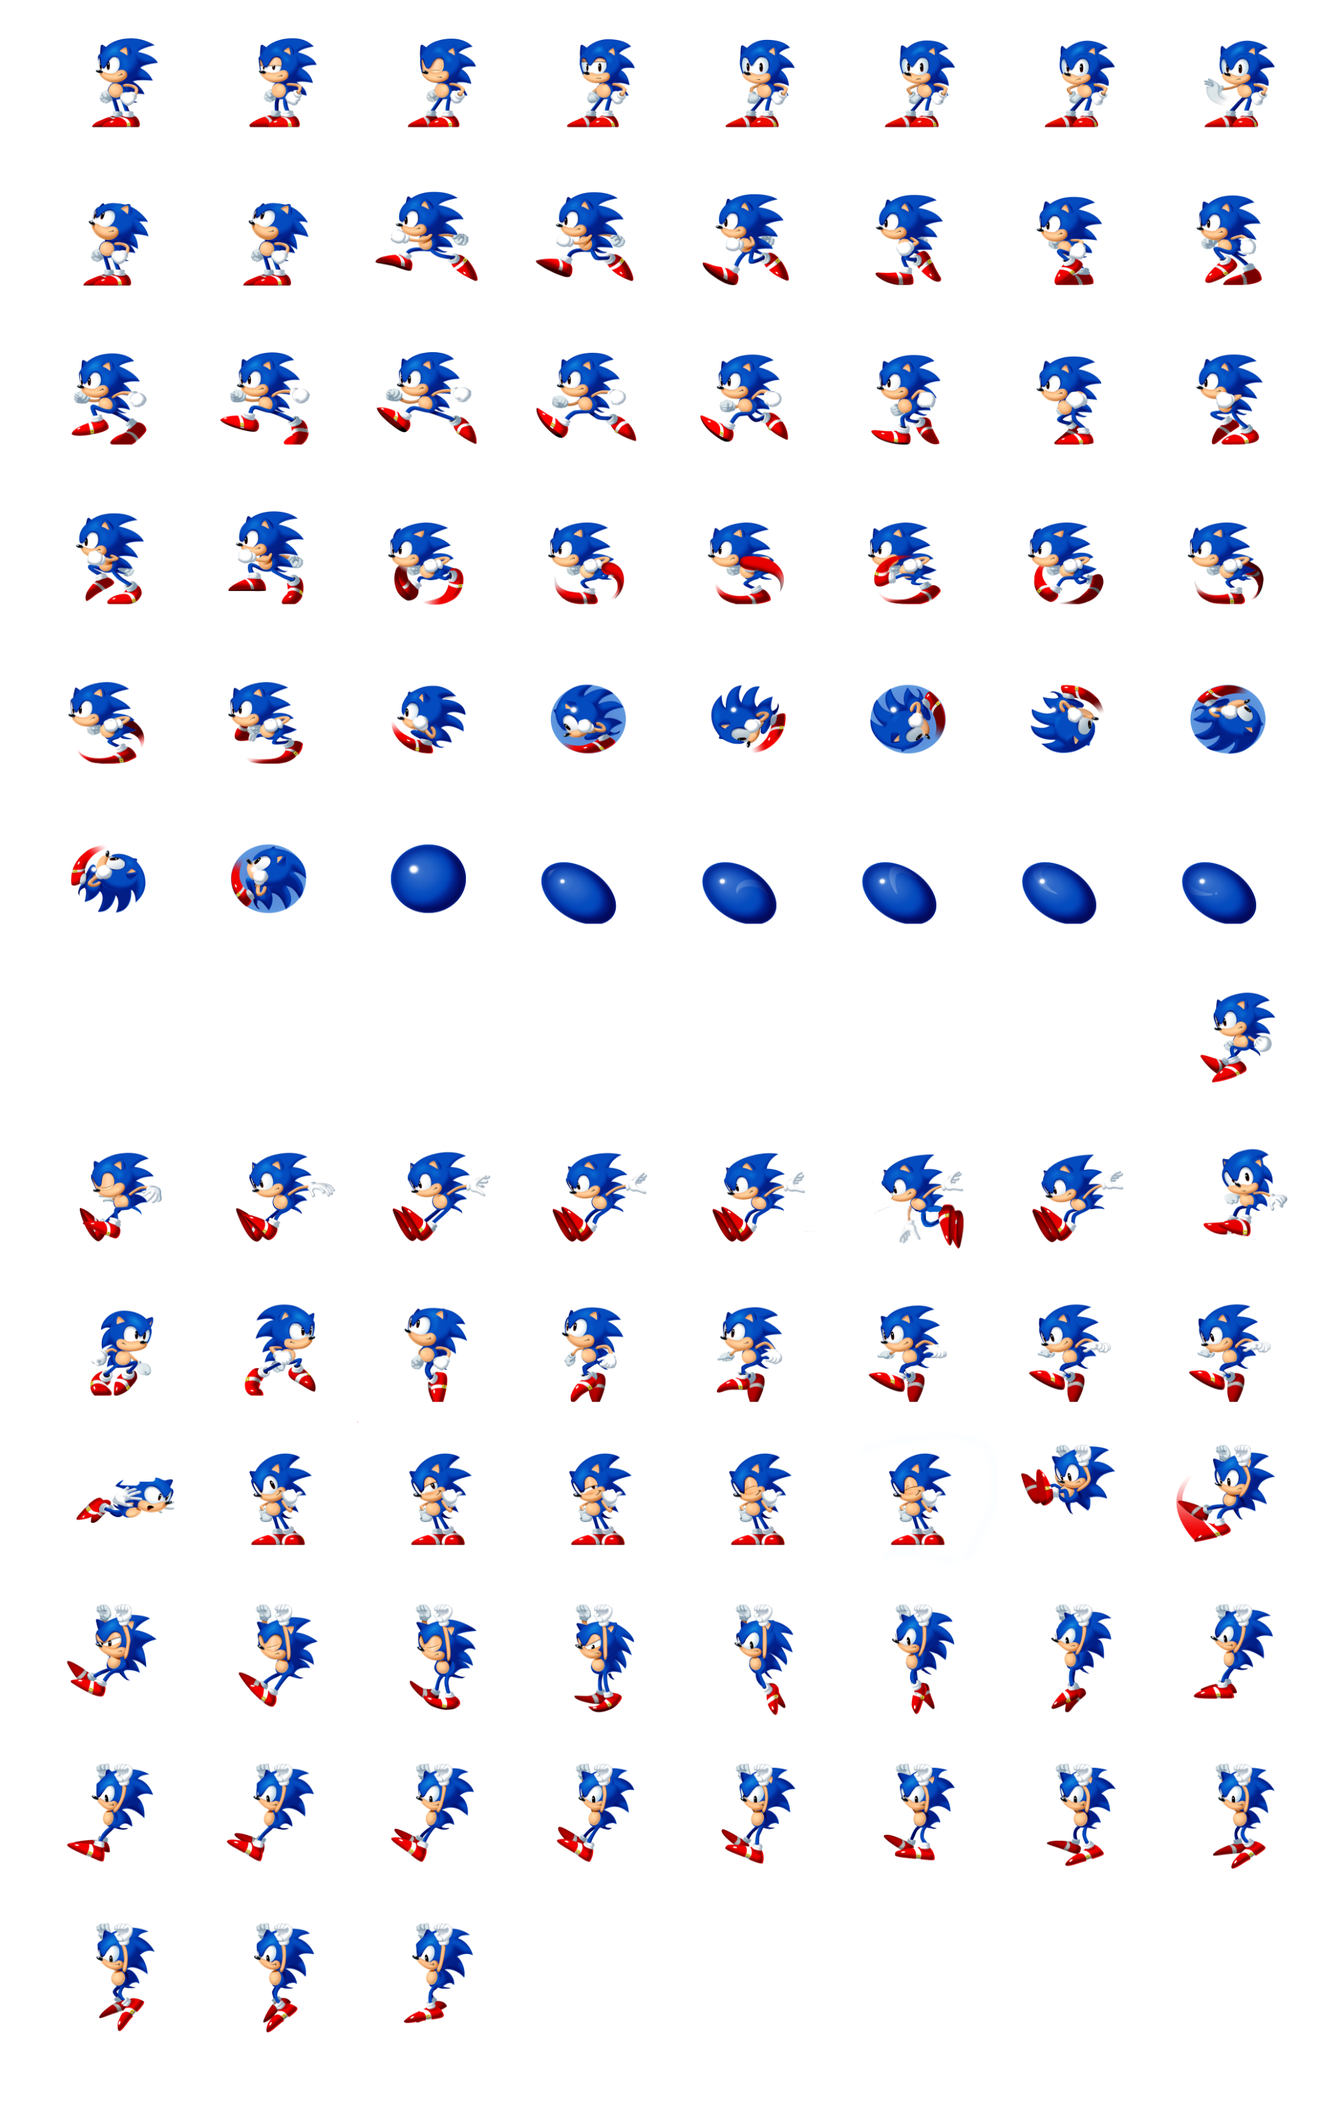
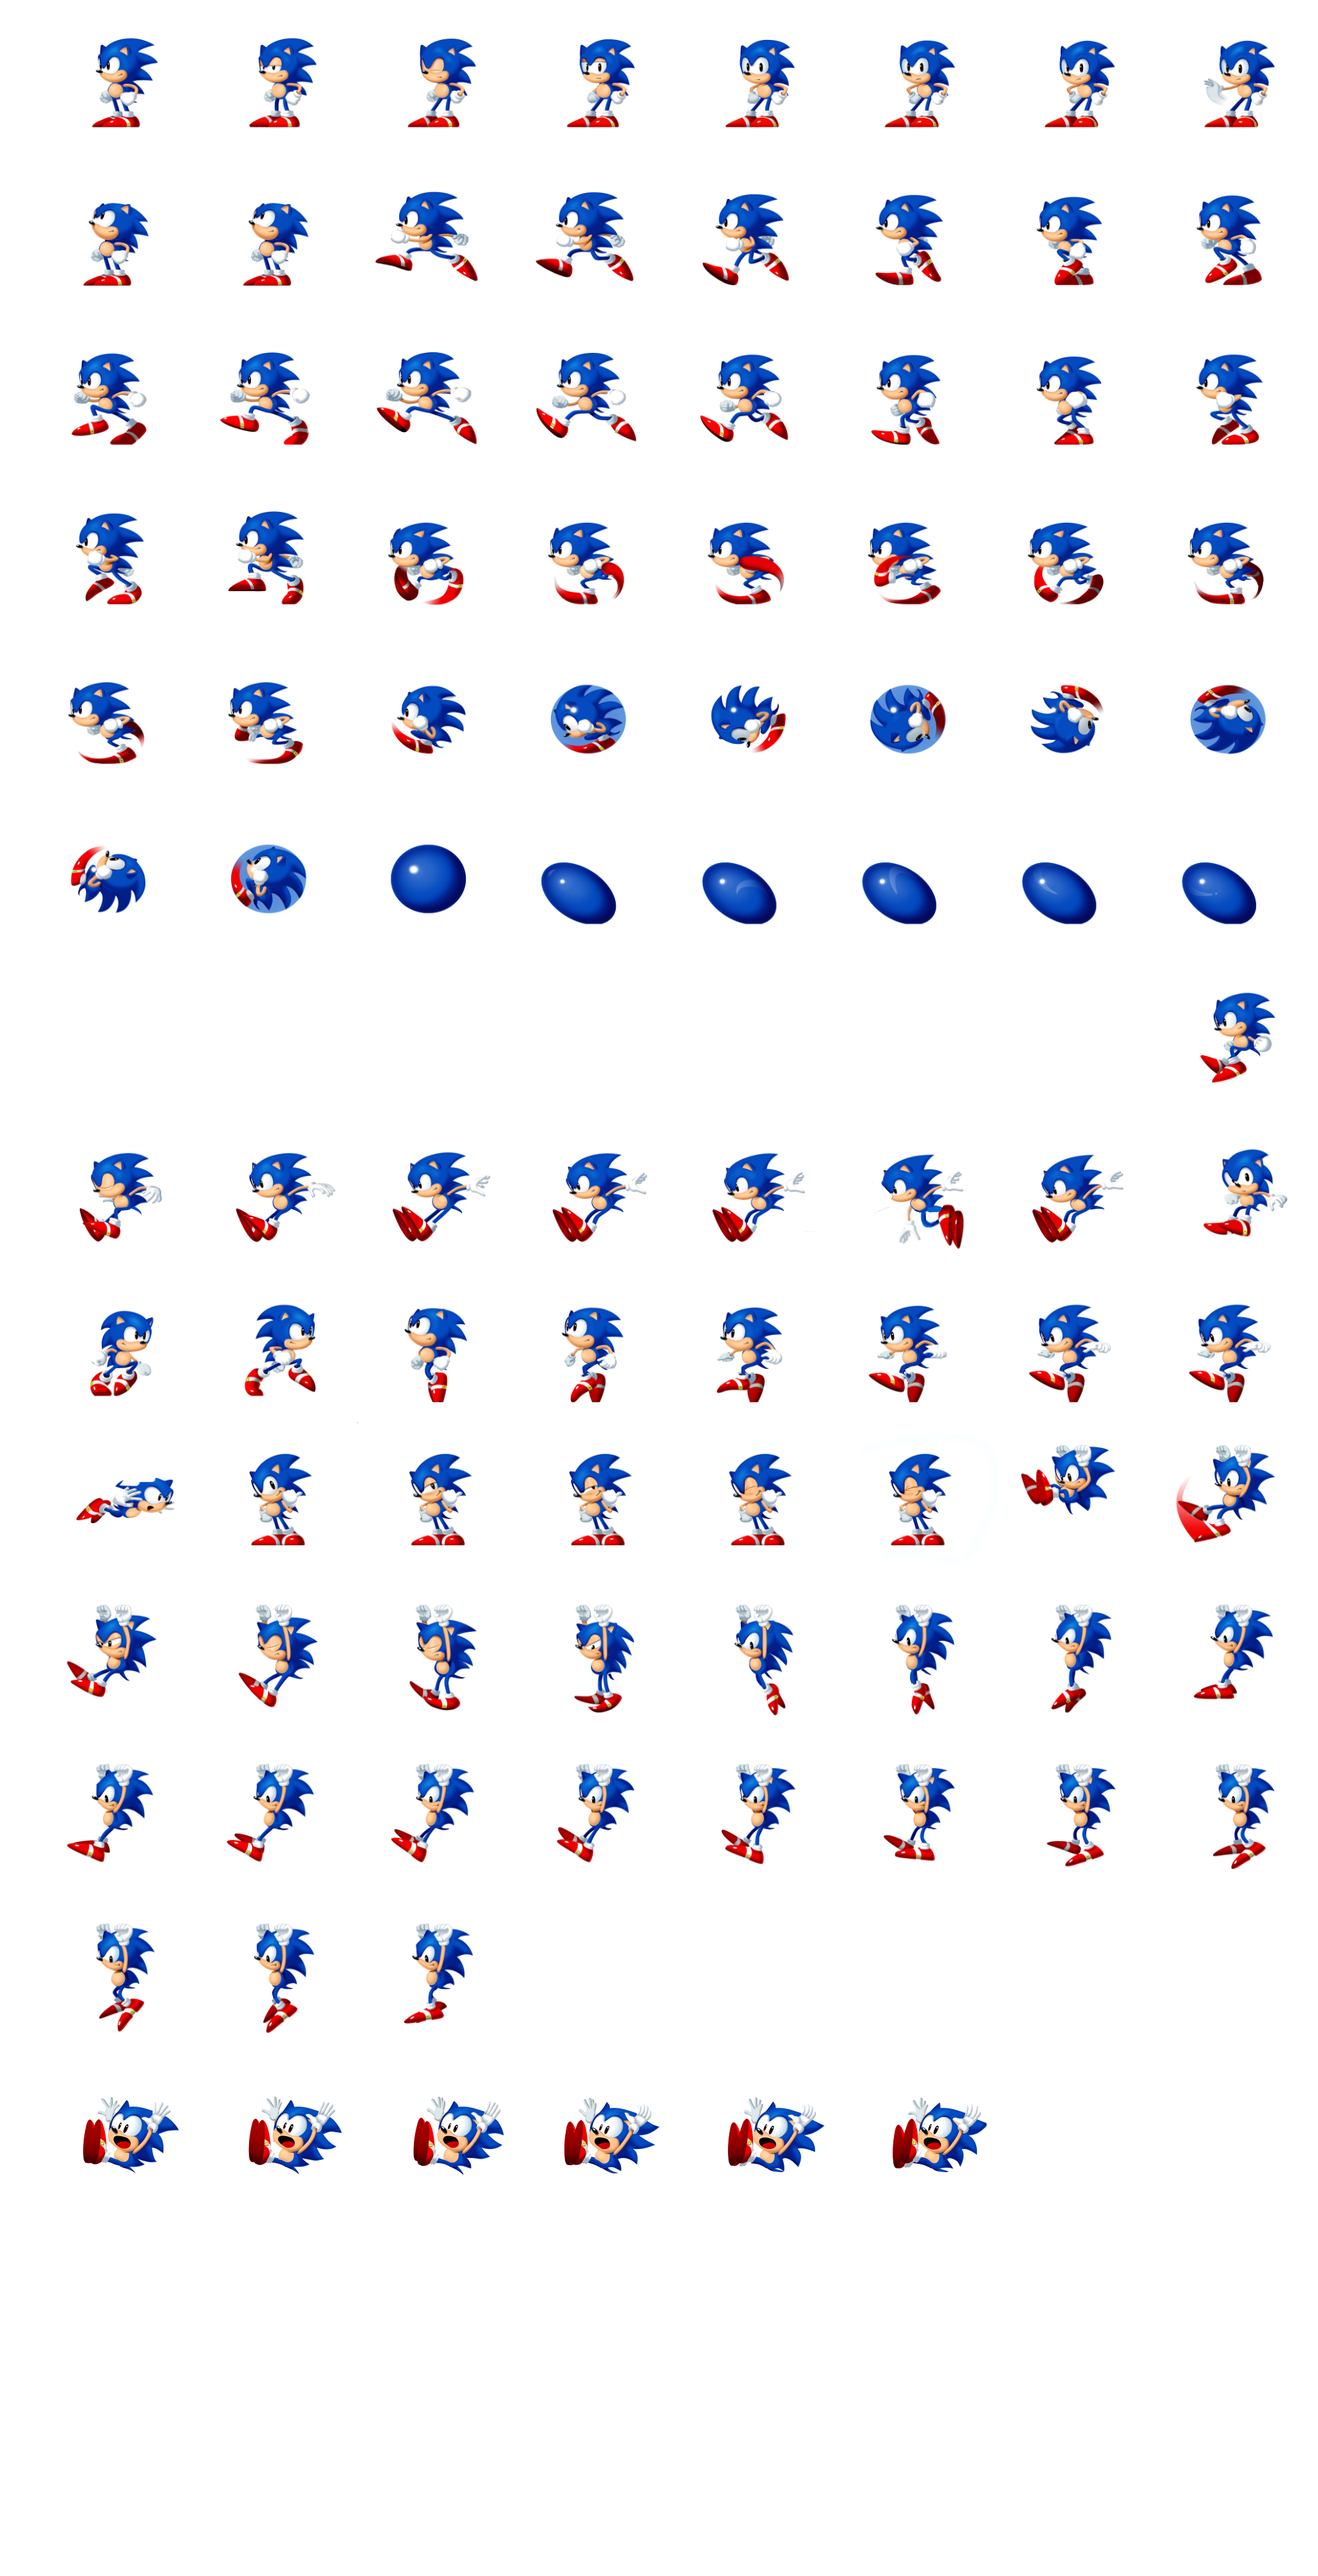
5/7

diff --git a/Classes/Sonic.cpp b/Classes/Sonic.cpp
@@ -10,7 +10,7 @@ Sonic::Sonic()
 	Vector<SpriteFrame*> jump_FL = loadAnim("Sonic/sonic_animation.xml", "jump");
 	Vector<SpriteFrame*> roll_FL = loadAnim("Sonic/sonic_animation.xml", "roll");
 	Vector<SpriteFrame*> fall_FL = loadAnim("Sonic/sonic_animation.xml", "fall");
-
+	Vector<SpriteFrame*> hurt_FL = loadAnim("Sonic/sonic_animation.xml", "hurt");
 
 	run_fast_Ani = new RefPtr<Animate>(Animate::create(Animation::createWithSpriteFrames(run_fast_FL, 0.01f)));
 	run_slow_Ani = new RefPtr<Animate>(Animate::create(Animation::createWithSpriteFrames(run_slow_FL, 0.1f)));
@@ -19,6 +19,8 @@ Sonic::Sonic()
 	roll_Ani=new RefPtr<Animate>(Animate::create(Animation::createWithSpriteFrames(roll_FL, 0.03f)));
 	fall_Ani= new RefPtr<Animate>(Animate::create(Animation::createWithSpriteFrames(fall_FL, 0.01f)));
 	roll_sky_Ani= new RefPtr<Animate>(Animate::create(Animation::createWithSpriteFrames(loadAnim("sonic_animation.xml", "roll_in_sky"), 0.03f)));;
+	hurt_Ani= new RefPtr<Animate>(Animate::create(Animation::createWithSpriteFrames(hurt_FL, 0.05f)));
+
 
 	auto verti = PhysicsBody::createCircle(75, PhysicsMaterial(0.1f, 0.0f, 0.0f));
 
@@ -167,6 +169,9 @@ void Sonic::SetStateByTag(SonicState::StateAction action)
 	case SonicState::HOLD:
 		this->SetState(new SonicHoldState(mData));
 		break;
+	case SonicState::HURT:
+		this->SetState(new SonicHurtState(mData));
+		break;
 
 	}
 }
@@ -212,6 +217,11 @@ void Sonic::SetState(SonicState * state)
 		this->setTextureRect(Rect(1366, 1784, 132, 159));
 		return;
 		break;
+	case SonicState::HURT:
+		this->stopAllActions();
+		mCurrentAnimate = hurt_Ani;
+		mCurrentAction = mCurrentAnimate->get()->clone();
+		break;
 	}
 	this->runAction(mCurrentAction);
 }
@@ -252,42 +262,17 @@ void Sonic::HandleCollision(Sprite * sprite)
 	}
 	
 	//When Sonic hits enemy, push back and drop rings
-	if (sprite->getTag() == Define::LANDMONSTER 
-			&& (this->mCurrentState->GetState() == SonicState::RUN_FAST 
-				|| this->mCurrentState->GetState() == SonicState::JUMP 
-					|| this->mCurrentState->GetState() == SonicState::FALL))
+	if (sprite->getTag() == Define::LANDMONSTER && mCurrentState->GetState() != SonicState::ROLL)
 	{
-		this->SetVelocity(0, 0);
-		this->getPhysicsBody()->applyImpulse(Vec2(-500000, 100000));
 		
-		if (ringCollected > 0 && baseLife > 0) 
-		{
-			int t = ringCollected; //Temp variable
-			for (int i = 0; i < (int)(t / baseLife); i++)
-			{
-				this->runAction(CallFuncN::create(CC_CALLBACK_0(Sonic::DropRing, this)));
-				ringCollected--;				
-			}
-			baseLife--;
-		}
-		else if (ringCollected <= 0 || baseLife <= 0)
-		{
-			////You die	
-			ringCollected = 0;
-			baseLife = 2;
-		}
 
-		//Set monster no longer interact with Sonic
-		sprite->getPhysicsBody()->setContactTestBitmask(0);
+		this->SetStateByTag(SonicState::HURT);
 		this->runAction(Blink::create(2, 10));
+		//Monster cant collision with Sonic 
+		sprite->getPhysicsBody()->setContactTestBitmask(0);
+	
 		
 	}
-
-	if (this->getPhysicsBody()->getContactTestBitmask() == 14)
-	{
-		this->getPhysicsBody()->setContactTestBitmask(30);
-	}
-
 	mCurrentState->HandleCollision(sprite);
 }
 
@@ -328,25 +313,4 @@ void Sonic::updateStart(float dt)
 	//this->addChild(_roll_circle);
 	this->addChild(_roll_effect);
 	_roll_effect->setVisible(false);
-}
-
-void Sonic::DropRing()
-{
-	auto ring = new SmallRing();
-	ring->setPosition(this->getPosition() + this->getContentSize()/2);
-
-	ring->getPhysicsBody()->setDynamic(true);
-	ring->getPhysicsBody()->setGravityEnable(true);
-	
-	ring->getPhysicsBody()->setCollisionBitmask(2);
-	
-	float x = RandomHelper::random_real(-1.0, 1.0);
-	float y = RandomHelper::random_real(0.0, 10.0);
-
-	ring->getPhysicsBody()->setVelocity(Vec2(0, 0));
-	ring->getPhysicsBody()->applyForce(Vec2(-3000000*x, 800000*y));
-	ring->getPhysicsBody()->setContactTestBitmask(1);
-	ring->SetAutoRemove();
-
-	this->getParent()->addChild(ring, 1);
 }

diff --git a/Classes/SonicHurtState.cpp b/Classes/SonicHurtState.cpp
@@ -1,0 +1,78 @@
+#include "SonicHurtState.h"
+#include "Sonic.h"
+
+
+SonicHurtState::SonicHurtState(SonicData * playerData)
+{
+	
+	this->mPlayerData = playerData;
+	
+	mPlayerData->player->SetVelocity(0, 0);
+	mPlayerData->player->getPhysicsBody()->applyImpulse(Vec2(-500000, 200000));
+
+
+	if ( mPlayerData->player->ringCollected > 0 &&  mPlayerData->player->baseLife > 0)
+	{
+		int t =  mPlayerData->player->ringCollected; //Temp variable
+		for (int i = 0; i < (int)(t /  mPlayerData->player->baseLife); i++)
+		{
+			//mPlayerData->player->runAction(CallFuncN::create(CC_CALLBACK_0(SonicHurtState::DropRing, this)));
+			DropRing();
+			mPlayerData->player->ringCollected--;
+		}
+		 mPlayerData->player->baseLife--;
+	}
+	else if ( mPlayerData->player->ringCollected <= 0 ||  mPlayerData->player->baseLife <= 0)
+	{
+		 mPlayerData->player->ringCollected = 0;
+		 mPlayerData->player->baseLife = 2;
+	}
+
+
+}
+
+SonicHurtState::~SonicHurtState()
+{
+}
+
+void SonicHurtState::update()
+{
+	if (this->mPlayerData->player->CheckLastFrame())
+	{
+		this->mPlayerData->player->SetStateByTag(StateAction::RUN_FAST);
+		return;
+	}
+}
+
+void SonicHurtState::handle_swipe(Define::SWIPE_DIRECTION direct)
+{
+}
+
+SonicState::StateAction SonicHurtState::GetState()
+{
+	return SonicState::HURT;
+}
+
+
+
+void SonicHurtState::DropRing()
+{
+	auto ring = new SmallRing();
+	//ring->setPosition(0, 0);
+	ring->setPosition(mPlayerData->player->getPosition()+Vec2(0,100));
+	//ring->setPosition(Director::getInstance()->getWinSize);
+	ring->getPhysicsBody()->setDynamic(true);
+	ring->getPhysicsBody()->setGravityEnable(true);
+
+	ring->getPhysicsBody()->setCollisionBitmask(2);
+
+	float x = RandomHelper::random_real(-1.0, 1.0);
+	float y = RandomHelper::random_real(0.0, 10.0);
+
+	ring->getPhysicsBody()->setVelocity(Vec2(0, 0));
+	ring->getPhysicsBody()->applyForce(Vec2(-3000000 * x, 800000 * y));
+	ring->getPhysicsBody()->setContactTestBitmask(1);
+	ring->SetAutoRemove();
+	auto  temp=	mPlayerData->player->getParent();
+	mPlayerData->player->getParent()->addChild(ring, 10);
+}

diff --git a/Classes/TurtorialScene.cpp b/Classes/TurtorialScene.cpp
@@ -8,7 +8,7 @@ cocos2d::Scene * TurtorialScene::createScene()
 	scene->getPhysicsWorld()->setGravity(Vec2(0, -1000));
 
 	// optional: set debug draw
-	//scene->getPhysicsWorld()->setDebugDrawMask(0xffff);
+	scene->getPhysicsWorld()->setDebugDrawMask(0xffff);
 	scene->getPhysicsWorld()->step(1 / 60.0f);
 
 
@@ -158,7 +158,7 @@ void TurtorialScene::LoadMap(CCTMXTiledMap * map)
 			edgeSp->setTag(Define::land);
 
 
-			auto boundBody = PhysicsBody::createBox(Size(wi_box, he_box), PhysicsMaterial(0.1f, 1.0f, 0.0f));
+			auto boundBody = PhysicsBody::createBox(Size(wi_box, he_box), PhysicsMaterial(0.1f, 1.0f,0.0f));
 			boundBody->setDynamic(false);
 
 
@@ -362,12 +362,6 @@ bool TurtorialScene::onContactBegin(cocos2d::PhysicsContact & contact)
 	}
 	if (tagA == Define::LANDMONSTER || tagB == Define::LANDMONSTER)
 	{
-		
-	/*	auto ring = new SmallRing();
-		ring->setPosition(_mSonic->getPosition());
-		this->addChild(ring);*/
-
-
 		if (tagA == Define::LANDMONSTER)
 		{
 			Monster *monster = (Monster*)spriteA;
@@ -523,6 +517,25 @@ bool TurtorialScene::init()
 	this->addChild(_mSonic);
 	LoadMap(_tileMap);
 	
+
+	auto ring = new SmallRing();
+	//ring->setPosition(mPlayerData->player->getPosition() + mPlayerData->player->getContentSize() / 2);
+	ring->setPosition(1072,188);
+	ring->getPhysicsBody()->setDynamic(true);
+	ring->getPhysicsBody()->setGravityEnable(true);
+
+	ring->getPhysicsBody()->setCollisionBitmask(2);
+
+	float x = RandomHelper::random_real(-1.0, 1.0);
+	float y = RandomHelper::random_real(0.0, 10.0);
+
+	ring->getPhysicsBody()->setVelocity(Vec2(0, 0));
+	ring->getPhysicsBody()->applyForce(Vec2(-3000000 * x, 800000 * y));
+	ring->getPhysicsBody()->setContactTestBitmask(1);
+	//ring->SetAutoRemove();
+	this->addChild(ring, 10);
+
+
 
 	
 	_diabox = new MyDialogBox();

diff --git a/Classes/SmallRing.cpp b/Classes/SmallRing.cpp
@@ -4,16 +4,16 @@
 
 SmallRing::SmallRing()
 {
-	this->initWithFile("ring2.png",Rect(0,0,50,50));
+	this->initWithFile("Item/ring.png",Rect(0,0,50,50));
 	this->setPosition(100, 100);
-	roll = new RefPtr<Animate>(Animate::create(Animation::createWithSpriteFrames(Define::loadAnim("ring2.xml", "roll"), 0.1f)));
+	roll = new RefPtr<Animate>(Animate::create(Animation::createWithSpriteFrames(Define::loadAnim("ring.xml", "roll"), 0.1f)));
 	this->runAction(RepeatForever::create(roll->get()));
 	this->setAnchorPoint(Vec2(0, 1));
 	
-	auto body = PhysicsBody::createCircle(25);
+	auto body = PhysicsBody::createBox(Size(50,50));
 
-	body->getShape(0)->setFriction(1.0f);                                    
-	body->getShape(0)->setDensity(0.07f);
+	//body->getShape(0)->setFriction(1.0f);                                    
+	body->getShape(0)->setDensity(0.05f);
 	body->setDynamic(false);
 	body->setGravityEnable(false);
 	body->setRotationEnable(false);

diff --git a/Classes/Sonic.h b/Classes/Sonic.h
@@ -9,6 +9,7 @@
 #include "SonicRollState.h"
 #include "SonicFallState.h"
 #include "SonicHoldState.h"
+#include "SonicHurtState.h"
 #include "GameDefine.h"
 #include "GameParticle.h"
 #include "SmallRing.h"
@@ -36,8 +37,8 @@ public:
 	void SetVelocity(int x, int y); 
 	void SetVelocityX(int x); //Set velocity X, old Y
 
-	void DropRing(); //When Sonic hits enemy, drop rings
-	int ringCollected = 0; //Count rings Sonic collected
+	
+	int ringCollected =100; //Count rings Sonic collected
 	int baseLife = 2; //Count the number of your dropping rings (drop ring 3 times you die)
 
 	BUTTON_TAG mJustTap = NONE;
@@ -53,7 +54,7 @@ private:
 	RefPtr<Animate>  *roll_Ani;
 	RefPtr<Animate>  *fall_Ani;
 	RefPtr<Animate>  *roll_sky_Ani;
-
+	RefPtr<Animate>  *hurt_Ani;
 
 
 

diff --git a/Classes/TapButton.cpp b/Classes/TapButton.cpp
@@ -53,7 +53,7 @@ void TapButton::Active()
 
 	auto actionMoveDone = CallFuncN::create(CC_CALLBACK_0(TapButton::Dissapear, this));
 
-	circle->runAction(Sequence::create(ScaleTo::create(1.0, 0.29), actionMoveDone,NULL));
+	circle->runAction(Sequence::create(ScaleTo::create(_time_circle_shrink, 0.29), actionMoveDone,NULL));
 
 	isActive = true;
 }
@@ -101,12 +101,12 @@ void TapButton::update(float dt)
 		this->Active();
 	if (isActive && isFirst)
 	{
-		if (can_Active)
+		/*if (can_Active)
 		{
-			mTarget->SetStateByTag(SonicState::StateAction::JUMP);
-			DeleteNow(false);
+			mTarget->SetStateByTag(_action);
+			DeleteNow(true);
 			return;
-		}
+		}*/
 
 		BUTTON_TAG tag = mTarget->mJustTap;
 		if (!can_Active && tag != NONE)

diff --git a/Classes/SonicHurtState.h b/Classes/SonicHurtState.h
@@ -1,12 +1,16 @@
 #pragma once
 #include "SonicState.h"
-class SonicRollState :public SonicState
+class SonicHurtState :public SonicState
 {
 public:
-	SonicRollState(SonicData *playerData);
-	~SonicRollState();
+	SonicHurtState(SonicData *playerData);
+	~SonicHurtState();
 	void update();
+
 	void handle_swipe(Define::SWIPE_DIRECTION direct);
 	virtual SonicState::StateAction GetState();
-	void HandleCollision(Sprite* sprite);
+	void DropRing(); //When Sonic hits enemy, drop rings
+
 };
+
+

diff --git a/Classes/Monster.cpp b/Classes/Monster.cpp
@@ -38,6 +38,7 @@ void Monster::Init(Sonic * sonic)
 	_sonic = sonic;
 	_tapButton = new TapButton(RandomHelper::random_int(1, 4), Vec2(0, 0), _sonic, (Layer*)_sonic->getParent());
 	_tapButton->isFirst = true;
+	_tapButton->_time_circle_shrink = 0.7;
 	_tapButton->_action = SonicState::ROLL;
 
 	this->setAnchorPoint(Vec2(0.5f, 0));

diff --git a/Classes/SonicRollState.cpp b/Classes/SonicRollState.cpp
@@ -35,9 +35,15 @@ void SonicRollState::update()
 
 void SonicRollState::handle_swipe(Define::SWIPE_DIRECTION direct)
 {
+
 }
 
 SonicState::StateAction SonicRollState::GetState()
 {
 	return SonicState::ROLL;
+}
+
+void SonicRollState::HandleCollision(Sprite * sprite)
+{
+
 }

diff --git a/Classes/TapButton.h b/Classes/TapButton.h
@@ -10,6 +10,7 @@ public:
 	Sprite* circle;
 	Sonic* mTarget;
 	float time_dissapear = 0.5;
+	float _time_circle_shrink = 1;
 	SonicState::StateAction _action = SonicState::JUMP;
 
 	RefPtr<Animate>  *_break_Ani;

diff --git a/Classes/SonicState.h b/Classes/SonicState.h
@@ -14,7 +14,8 @@ public:
 		FALL,
 		ROLL,
 		ROLL_IN_SKY,
-		HOLD
+		HOLD,
+		HURT
 	};
 	SonicState();
 	~SonicState();
